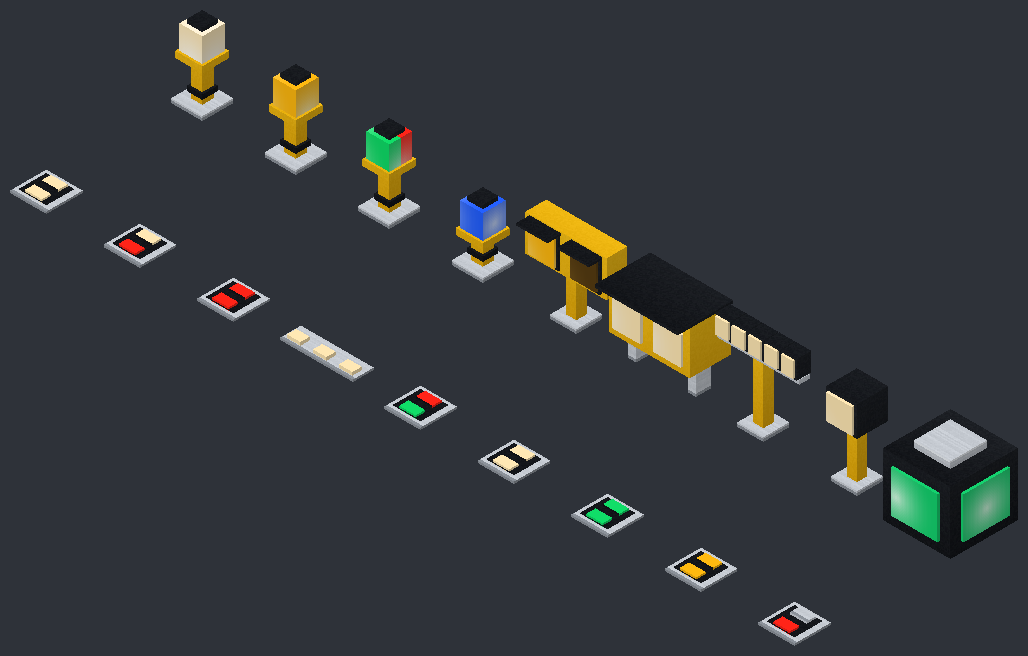
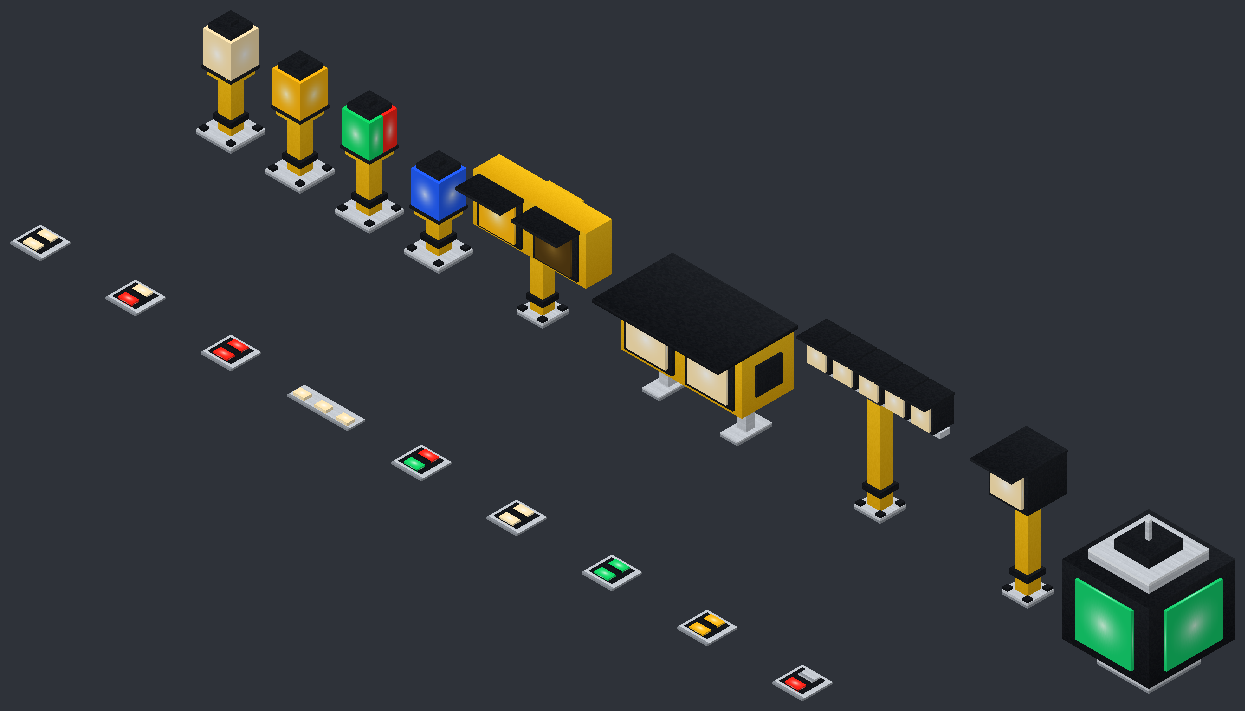
v1.34.0: 공항 조명 실물 비율로 크게

diff --git a/index.html b/index.html
@@ -78,7 +78,7 @@
   <div class="hero">
     <h1>Lumen 사용 설명서</h1>
     <p>도시를 밝히는 빛 애드온. 전광판과 조명부터 공항 세트, 출입증으로 여는 보안문까지 — 처음 써도 바로 따라 할 수 있게 정리했어요.</p>
-    <div class="pills"><span class="pill">버전 1.33.0</span><span class="pill">마인크래프트 베드락 1.21.90 이상</span><span class="pill">실험 기능 필요 없음</span></div>
+    <div class="pills"><span class="pill">버전 1.34.0</span><span class="pill">마인크래프트 베드락 1.21.90 이상</span><span class="pill">실험 기능 필요 없음</span></div>
   </div>
   <div class="quick">
     <a href="#install"><span class="em">📦</span><b>설치하기</b><span>파일 하나 열면 끝</span></a>
@@ -95,11 +95,11 @@
     <div class="topic" id="install" data-keys="설치 다운로드 팩 켜기 mcaddon 업데이트 새버전">
       <h3>설치하기</h3>
       <ol class="steps">
-        <li><b>파일 열기</b><code>Lumen_v1.33.0.mcaddon</code> 파일을 아이패드·아이폰의 <b>파일 앱</b>에서 탭하세요. 마인크래프트가 열리면서 자동으로 가져와요.</li>
+        <li><b>파일 열기</b><code>Lumen_v1.34.0.mcaddon</code> 파일을 아이패드·아이폰의 <b>파일 앱</b>에서 탭하세요. 마인크래프트가 열리면서 자동으로 가져와요.</li>
         <li><b>월드에 켜기</b>월드 옆 연필(편집) → <b>리소스 팩</b>과 <b>행동 팩</b>에서 각각 <b>Lumen</b>을 켜세요. 둘 다 켜야 해요.</li>
         <li><b>끝!</b>월드에 들어가면 크리에이티브 인벤토리의 <b>건축</b> 탭에 Lumen 블록이 묶음으로 생겨요.</li>
       </ol>
-      <div class="note info"><b>새 버전으로 바꿀 때</b>새 파일을 같은 방법으로 열면 돼요. 팩 이름에 버전(예: Lumen v1.33.0)이 보이니 바뀌었는지 확인할 수 있어요.</div>
+      <div class="note info"><b>새 버전으로 바꿀 때</b>새 파일을 같은 방법으로 열면 돼요. 팩 이름에 버전(예: Lumen v1.34.0)이 보이니 바뀌었는지 확인할 수 있어요.</div>
       <div class="note tip"><b>실험 기능은 켜지 않아도 돼요</b>Lumen은 정식 기능만 써요. 다른 애드온과 같이 켜 둬도 괜찮아요.</div>
     </div>
 
@@ -222,8 +222,9 @@
     <div class="topic" id="airfield" data-keys="밤 낮 꺼짐 켜짐 비 날씨 배치도 어디에 설치 위치 공항 조명 활주로 유도로 매입 매입등 가장자리 중심선 시단 종단 접지 정지선 경계등 윙왝 papi 진입각 진입등 섬광 래빗 등대 착륙">
       <h3>공항 조명 · 활주로 · 유도로</h3>
       <p>실제 공항처럼 <b>멀리서 또렷한 불빛 점</b>으로 보이는 등이에요. 렌즈는 밝게 빛나지만 주변은 아주 살짝만 비춰서 활주로 바닥이 색으로 물들지 않아요(그래서 장애표시등을 활주로에 쓸 때 생기던 큰 색 얼룩이 없어요). 건축 탭 <b>“공항 조명 · 활주로 · 유도로”</b> 묶음에 있어요.</p>
-      <figure class="shot"><img src="assets/img/airfield.png" width="1028" height="656" alt="매입등 9종과 고정형 가장자리등·경계등·PAPI·진입등·섬광등·등대" loading="lazy"><figcaption>앞줄: 매입등 · 뒷줄: 가장자리등 · 경계등 · PAPI · 진입등 · 섬광등 · 등대</figcaption></figure>
+      <figure class="shot"><img src="assets/img/airfield.png" width="1245" height="711" alt="매입등 9종과 고정형 가장자리등·경계등·PAPI·진입등·섬광등·등대" loading="lazy"><figcaption>앞줄: 매입등 · 뒷줄: 가장자리등 · 경계등 · PAPI · 진입등 · 섬광등 · 등대</figcaption></figure>
       <figure class="shot"><a href="assets/img/airfield_layout.png"><img src="assets/img/airfield_layout.png" width="1600" height="1600" alt="위에서 내려다본 활주로·유도로에 공항 조명 13가지를 놓는 위치와 방향, PAPI 읽는 법" loading="lazy" style="max-height:none;width:100%"></a><figcaption>어디에 무슨 등을 놓는지 한눈에 (누르면 크게)</figcaption></figure>
+      <div class="note info"><b>크기</b>기둥형·상자형 등은 실물 비율로 한 칸보다 커요(가장자리등 약 1.4칸 높이, PAPI·경계등·진입등 약 1.6~1.9칸 폭). 놓은 칸 하나만 부딪히고, 나머지 부분은 옆 칸 위로 솟아 보여요.</div>
       <div class="note info"><b>낮에는 꺼지고 밤에 켜져요</b>실제 공항처럼 <b>해 질 녘부터 해 뜰 무렵까지</b> 켜지고, 맑은 낮에는 꺼져요(렌즈는 색유리처럼 보여요). 낮이어도 <b>비나 뇌우</b>가 오면 바로 켜지고, 그치면 꺼져요. 지옥·엔드에서는 늘 켜져 있어요.<br>날씨는 “바뀌는 순간”을 기억하는 방식이라, 1.32.0을 처음 넣었을 때 이미 비가 오고 있었다면 다음에 날씨가 바뀔 때부터 따라가요.</div>
       <div class="note info"><b>놓는 방향</b>모든 공항 조명은 <b>놓는 사람 쪽이 정면</b>이에요. 착륙하는 비행기가 오는 쪽(활주로 바깥)에 서서 활주로를 바라보고 놓으면 돼요.</div>
       <div class="tbl"><table>
@@ -238,8 +239,8 @@
         <tr><td><b>유도로 가장자리등</b> (고정형 파랑)</td><td>유도로 양옆, 계류장 둘레.</td></tr>
         <tr><td><b>정지선등</b> (매입 빨강)</td><td>유도로가 활주로로 들어가기 전 정지선을 가로질러 한 줄. 정면만 빛나요.</td></tr>
         <tr><td><b>활주로 경계등</b> (노랑 2등)</td><td>유도로 정지선 양옆. 두 등이 번갈아 깜박여요.</td></tr>
-        <tr><td><b>PAPI 진입각 지시등</b></td><td>활주로 시작부 <b>왼쪽</b> 옆에 활주로와 직각으로 4대를 나란히(간격 3칸까지 띄워도 한 줄로 봐요).</td></tr>
-        <tr><td><b>진입등</b> (흰색 5등 바렛)</td><td>활주로 시작선 바깥으로 중심선을 따라 몇 칸마다.</td></tr>
+        <tr><td><b>PAPI 진입각 지시등</b></td><td>활주로 시작부 <b>왼쪽</b> 옆에 활주로와 직각으로 4대를 <b>한 칸씩 띄워</b> 한 줄로(한 대가 거의 두 칸 폭이라 바로 붙이면 겹쳐요. 3칸까지 띄워도 한 줄로 봐요).</td></tr>
+        <tr><td><b>진입등</b> (흰색 5등 바렛)</td><td>활주로 시작선 바깥으로 중심선을 따라 몇 칸마다(가로대가 거의 두 칸 폭이라 옆으로는 붙이지 않아요).</td></tr>
         <tr><td><b>순차 섬광등</b></td><td>진입등 줄 위에 같은 방향으로 몇 칸(최대 8칸 간격)마다. 바깥쪽부터 활주로 쪽으로 빛이 달려가요(3초마다).</td></tr>
         <tr><td><b>비행장 등대</b></td><td>관제탑·높은 건물 꼭대기. 초록과 흰색이 번갈아 번쩍여요.</td></tr>
       </table></div>
@@ -618,7 +619,7 @@
   </section>
 
   <footer>
-    Lumen 사용 설명서 · 버전 1.33.0 기준 · 그림은 게임 텍스처로 그린 미리보기라 실제 게임 화면(빛·그림자)과 조금 달라요.
+    Lumen 사용 설명서 · 버전 1.34.0 기준 · 그림은 게임 텍스처로 그린 미리보기라 실제 게임 화면(빛·그림자)과 조금 달라요.
   </footer>
 </main>
 </div>
